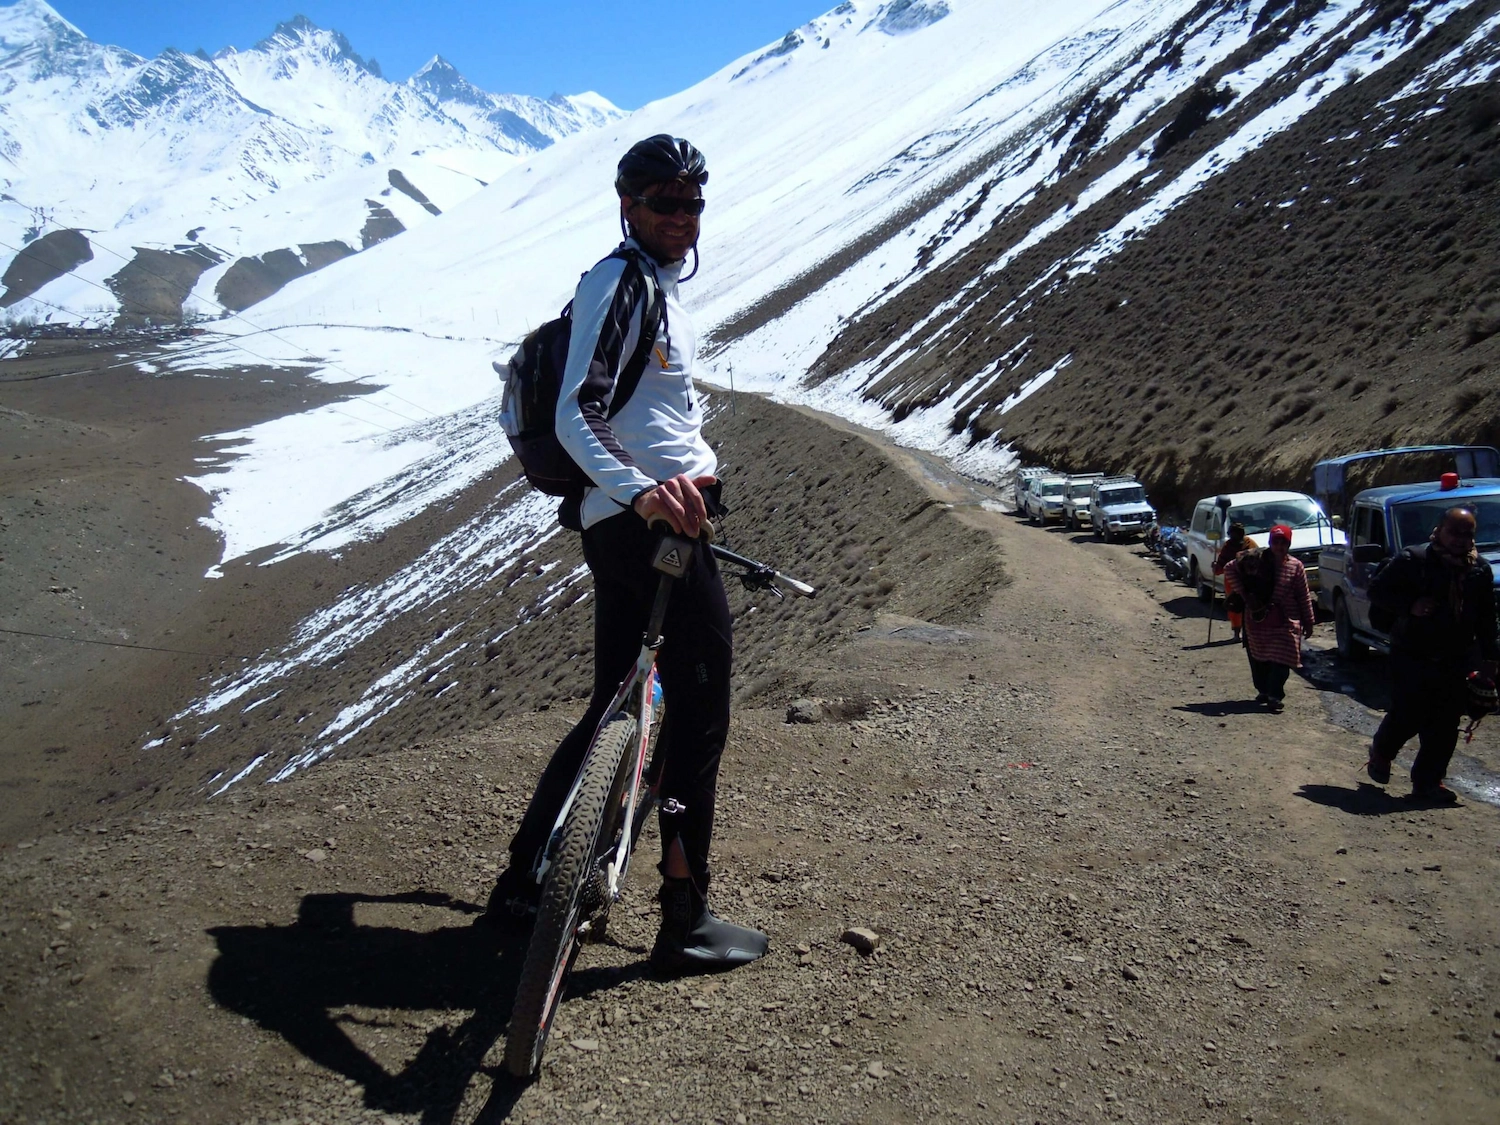
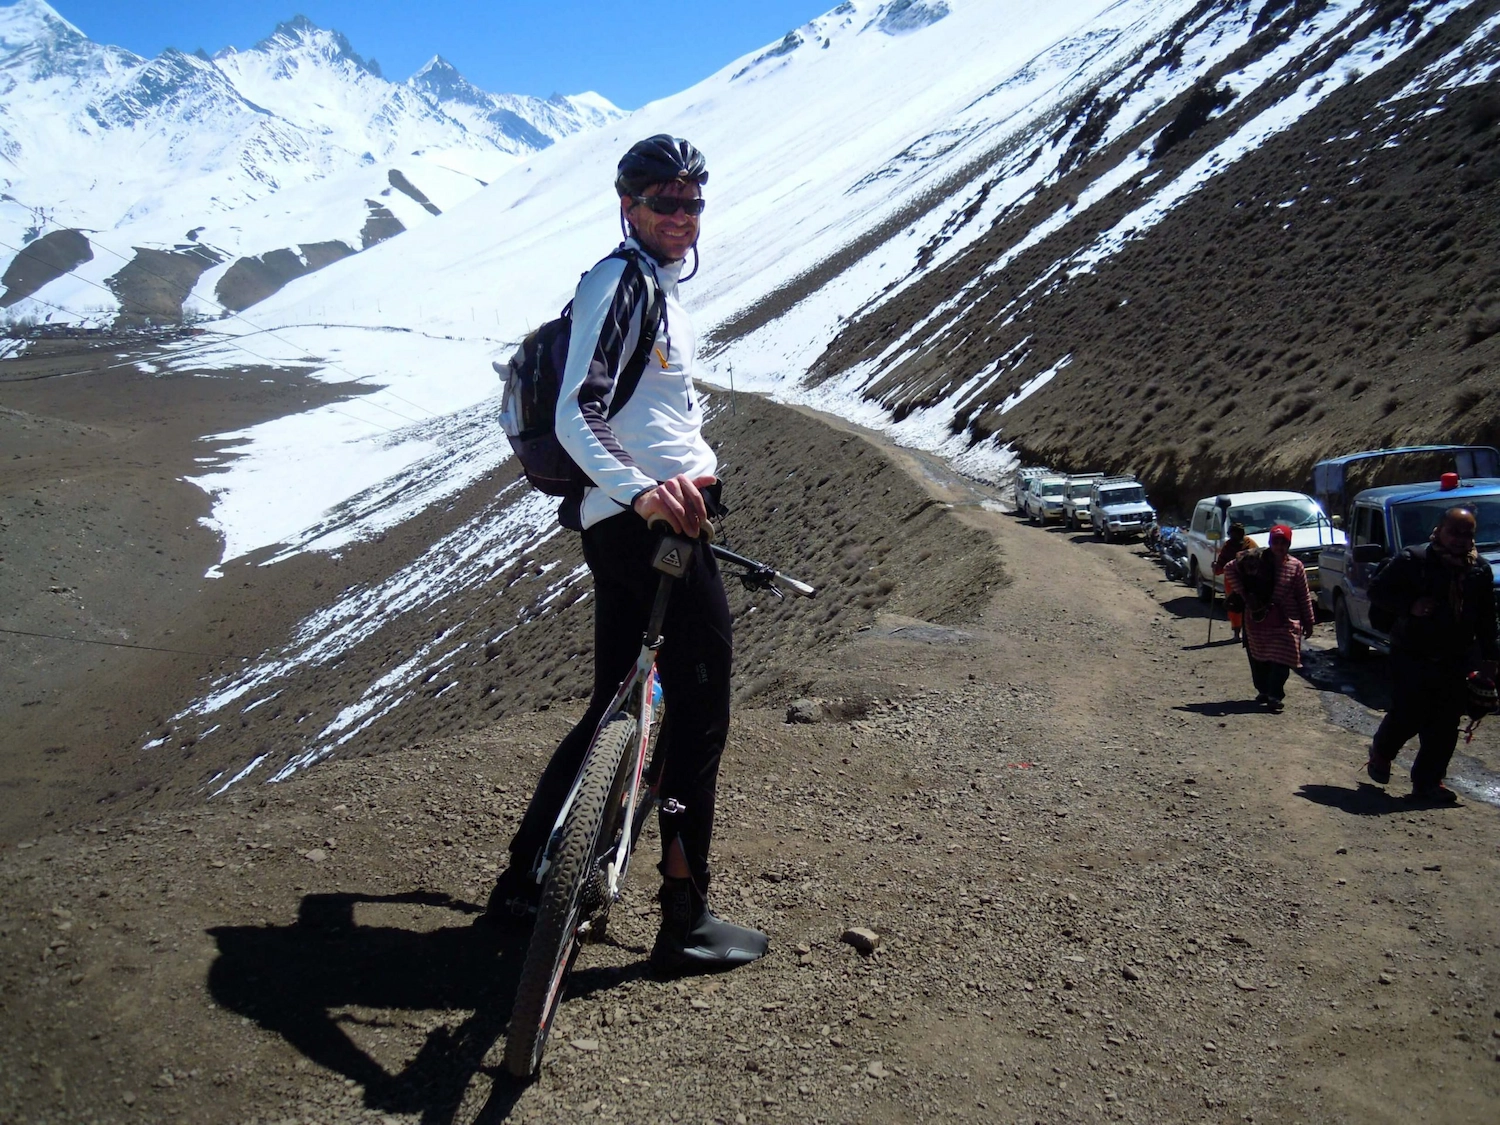
feat: update image dimensions and aspect ratio in ContactSection

Changed region(s): [[0.3373, 0.1244, 0.4907, 0.4667]]

diff --git a/src/app/components/ContactSection.jsx b/src/app/components/ContactSection.jsx
@@ -19,13 +19,13 @@ const ContactSection = ({ className = "" }) => {
         </HeadingSection>
 
         <div className="grid items-start gap-6 md:grid-cols-[1fr_1fr]">
-          <div className="overflow-hidden rounded-xl md:-order-1 xl:aspect-4/5">
+          <div className="overflow-hidden rounded-xl md:-order-1 xl:aspect-3/4">
             <Image
               src="/assets/joachim2.webp"
               alt="Johan Joachim Jerichow"
-              width={600}
-              height={1000}
-              className="h-full w-full object-cover brightness-120"
+              width={900}
+              height={1500}
+              className="h-full w-full object-cover"
             />
           </div>
 
